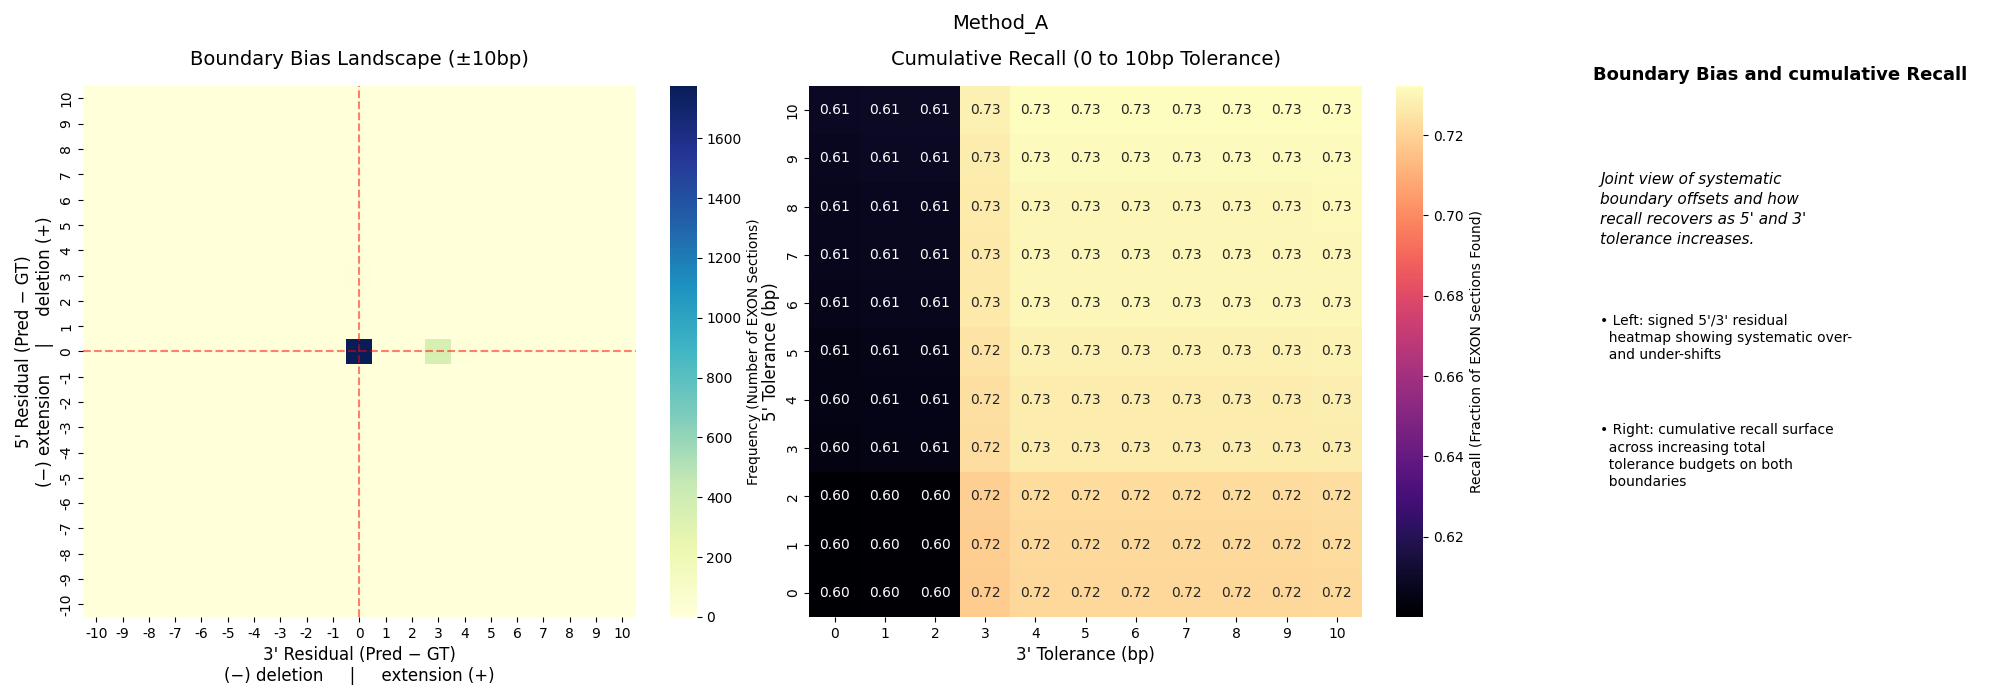
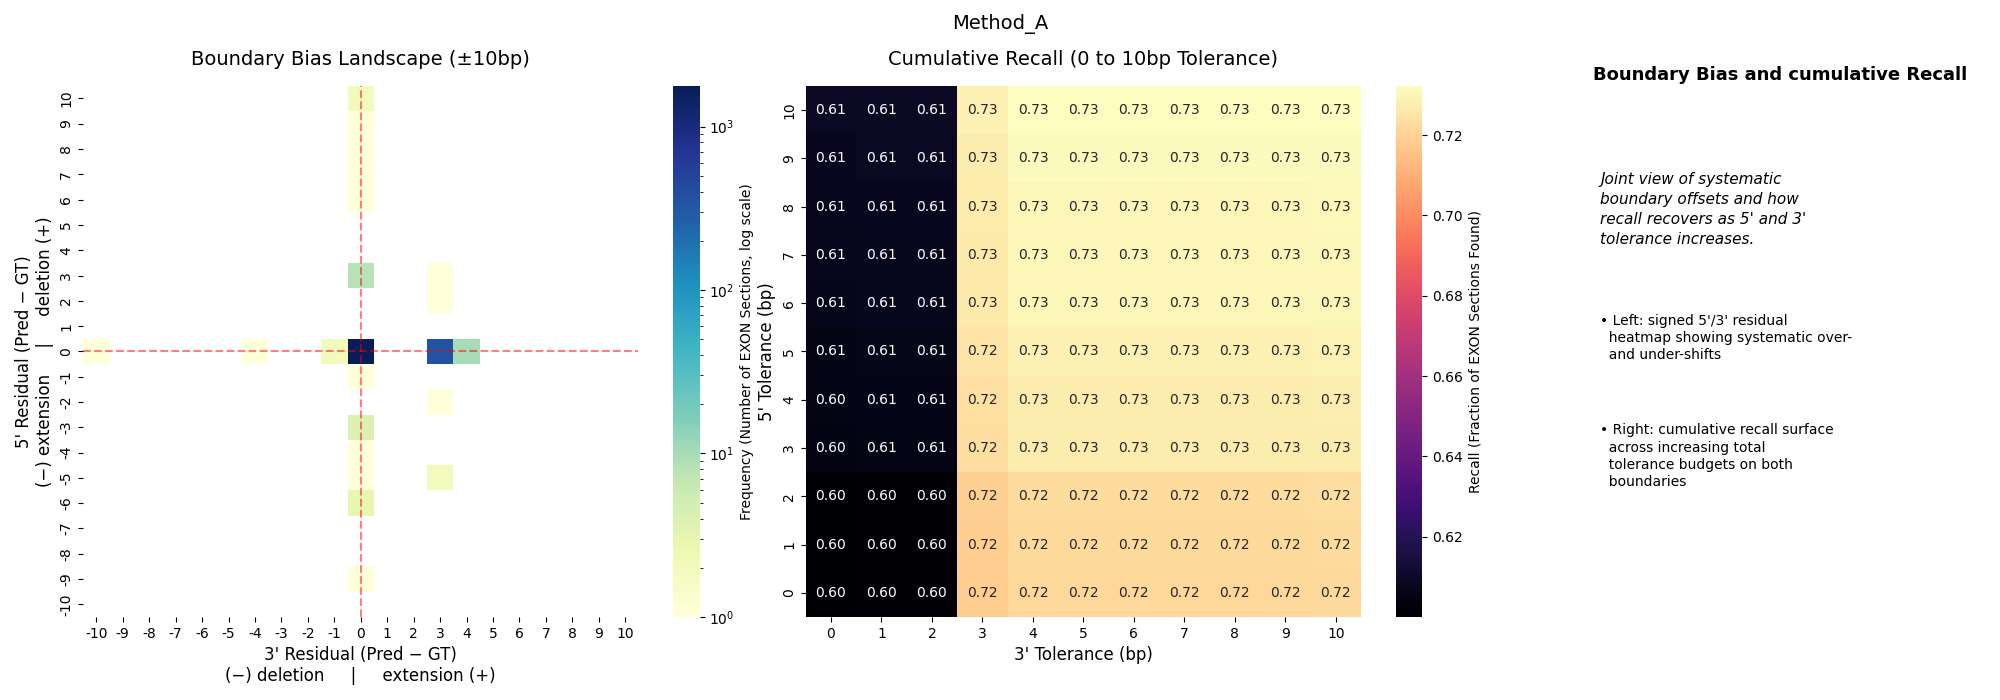
log scale the colouring for residuals

diff --git a/src/dna_segmentation_benchmark/plotting/metrics/boundary.py b/src/dna_segmentation_benchmark/plotting/metrics/boundary.py
@@ -4,6 +4,7 @@ import matplotlib.pyplot as plt
 import numpy as np
 import pandas as pd
 import seaborn as sns
+from matplotlib.colors import LogNorm
 
 from ..config import PlotMetadata
 from ..utils import _add_pictogram_panel
@@ -63,7 +64,8 @@ def plot_boundary_precision_landscapes(
             bias_matrix,
             ax=axes[0],
             cmap="YlGnBu",
-            cbar_kws={"label": f"Frequency (Number of {class_name} Sections)"},
+            norm=LogNorm(vmin=1, vmax=max(bias_matrix.values.max(), 1)),
+            cbar_kws={"label": f"Frequency (Number of {class_name} Sections, log scale)"},
         )
         axes[0].set_title(
             f"Boundary Bias Landscape (±{max_range}bp)",

diff --git a/docs/metrics/boundary_exactness.md b/docs/metrics/boundary_exactness.md
@@ -56,6 +56,10 @@ nucleotides of error in both 5' and 3' direction.
 
 ![Boundary residuals](../images/Method_A_boundary_landscape.png)
 
+The bias-landscape heatmap uses a log-scaled color norm, since the `(0, 0)`
+exact-match cell otherwise dominates the count and hides the (much rarer)
+off-center error structure. Cells with zero observations are left blank
+rather than colored as the low end of the scale.
 
 Interpretation:
 
